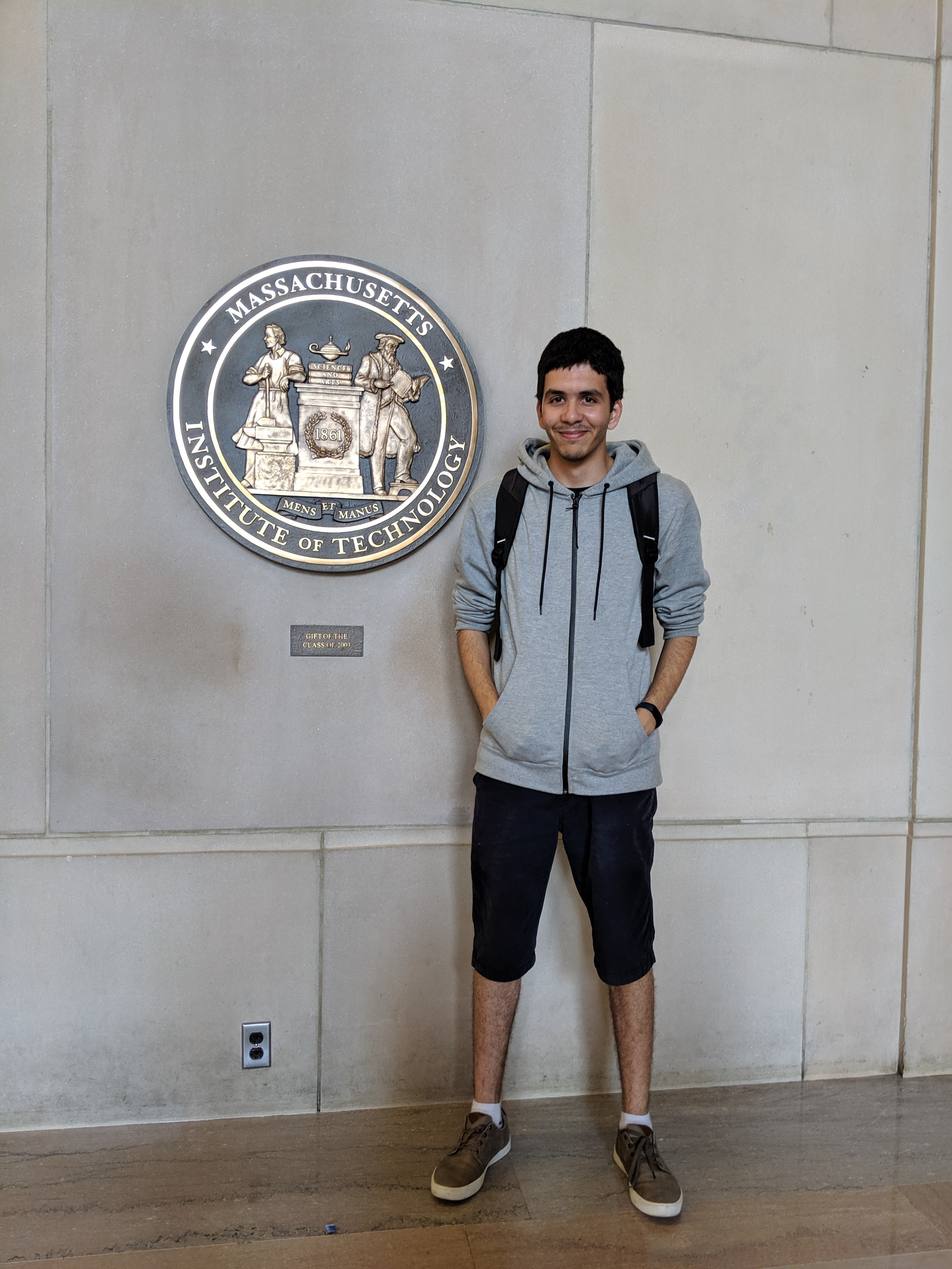
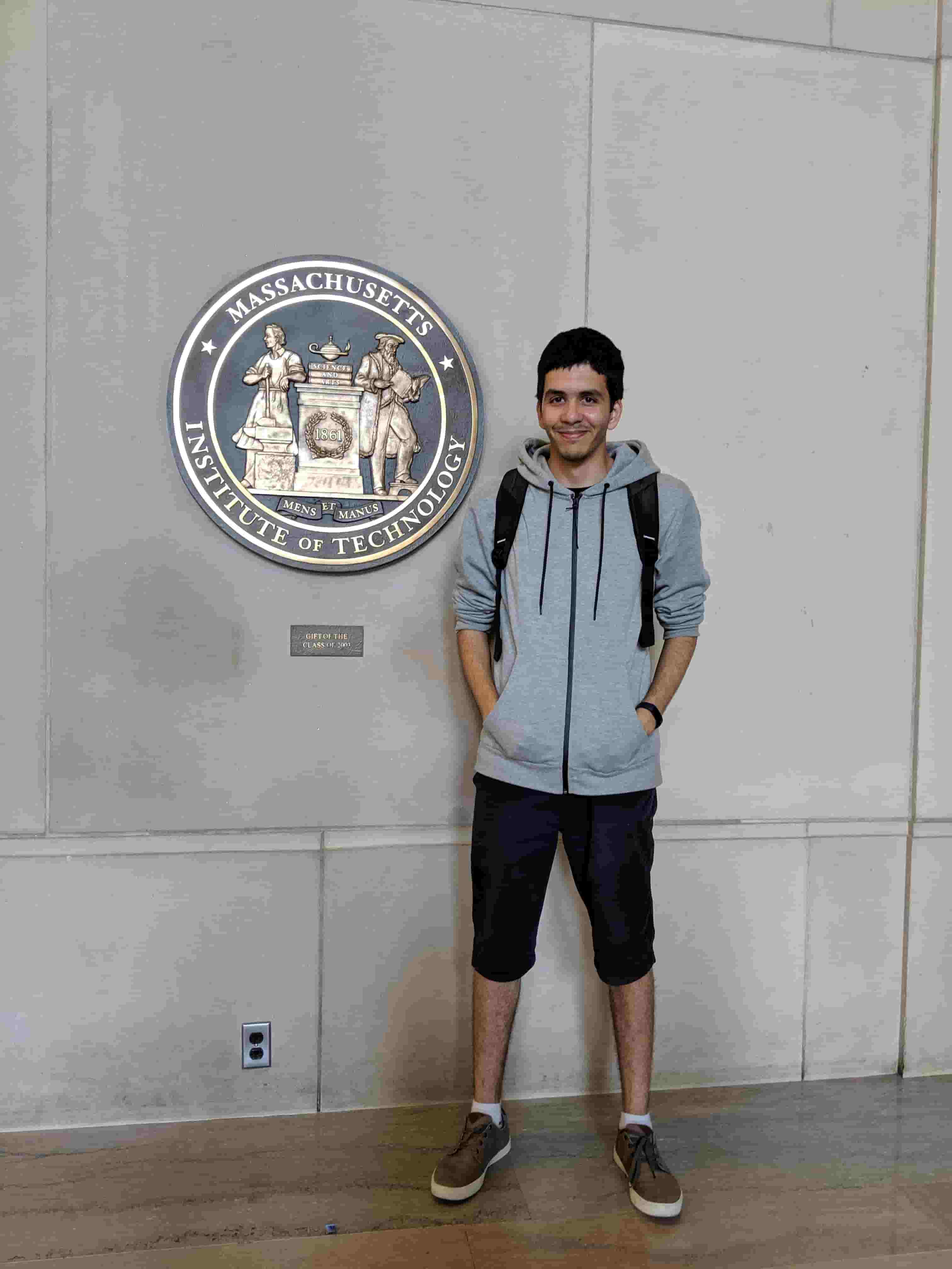
compress images and update them

Changed region(s): [[0.1865, 0.2188, 0.4974, 0.4375], [0.3108, 0.5, 0.373, 0.5312], [0.2487, 0.2188, 0.2798, 0.25]]

diff --git a/src/app/devfest/devfest.component.html b/src/app/devfest/devfest.component.html
@@ -461,7 +461,7 @@
             </div>
 
             <div class="card little  text-dark bg-white">
-              <img class="card-img-top" src="assets/gallery/Mentors/hadjer.jpeg" alt="Card image cap">
+              <img class="card-img-top" src="assets/gallery/Mentors/hadjer.jpg" alt="Card image cap">
               <div class="card-body">
                 <p class="title">
                   Hadjer BENMEZIANE
@@ -557,7 +557,7 @@
               </div>
 
               <div class="card little  text-dark bg-white">
-                <img class="card-img-top" src="assets/gallery/Mentors/hadjer.jpeg" alt="Card image cap">
+                <img class="card-img-top" src="assets/gallery/Mentors/hadjer.jpg" alt="Card image cap">
                 <div class="card-body">
                   <p class="title">
                     Hadjer BENMEZIANE
@@ -609,7 +609,7 @@
               </div>
 
               <div class="card little  text-dark bg-white">
-                <img class="card-img-top" src="assets/gallery/Mentors/Isam.jpeg" alt="Card image cap">
+                <img class="card-img-top" src="assets/gallery/Mentors/Isam.jpg" alt="Card image cap">
                 <div class="card-body">
                   <p class="title">
                     Issam KERFAH
@@ -619,7 +619,7 @@
               </div>
 
               <div class="card little  text-dark bg-white">
-                <img class="card-img-top" src="assets/gallery/Mentors/Adel.jpeg" alt="Card image cap">
+                <img class="card-img-top" src="assets/gallery/Mentors/Adel.jpg" alt="Card image cap">
                 <div class="card-body">
                   <p class="title">
                     Adel FOUDAD
@@ -765,19 +765,19 @@
       <div class="item">
         <div class="simpleBar little-cards-container">
           <div>
-            <img class="card little" style="padding: 1%;" (click)="goToLink('http://www.djezzy.dz/enpincubatorbydjezzy')" src="../../assets/gallery/Sponsors/Djezzy.png">
+            <img class="card little" style="padding: 1%; cursor: pointer;" (click)="goToLink('http://www.djezzy.dz/enpincubatorbydjezzy')" src="../../assets/gallery/Sponsors/Djezzy.svg">
           </div>
           <div>
-            <img class="card little" style="padding: 1%;"(click)="goToLink('https://education.github.com/')" src="../../assets/gallery/Sponsors/GHE.svg" height="100px">
-            <img class="card little" style="padding: 1%;"(click)="goToLink('https://www.discountstickerprinting.co.uk/')" src="../../assets/gallery/Sponsors/discount_printing.svg" height="100px">
-            <img class="card little" style="padding-right: 1%; padding-left: 1%; padding-bottom: 1%; padding-top: 1%;" (click)="goToLink('https://www.google.com/')"
+            <img class="card little" style="padding: 1%; cursor: pointer;"(click)="goToLink('https://education.github.com/')" src="../../assets/gallery/Sponsors/GHE.svg" height="100px">
+            <img class="card little" style="padding: 1%; cursor: pointer;"(click)="goToLink('https://www.discountstickerprinting.co.uk/')" src="../../assets/gallery/Sponsors/discount_printing.svg" height="100px">
+            <img class="card little" style="padding-right: 1%; cursor: pointer; padding-left: 1%; padding-bottom: 1%; padding-top: 1%;" (click)="goToLink('https://www.google.com/')"
               src="../../assets/gallery/Sponsors/google.png" height="100px">
           </div>
           <div>
-            <img class="card little" style="padding: 1%; padding-bottom: 2%; padding-top: 2%;" (click)="goToLink('https://www.dzhoster.com/')"
+            <img class="card little" style="padding: 1%; cursor: pointer; padding-bottom: 2%; padding-top: 2%;" (click)="goToLink('https://www.dzhoster.com/')"
               src="../../assets/gallery/Sponsors/DZH.png" height="100px">
-            <img class="card little" style="padding: 1%;" (click)="goToLink('https://yassir.io')" src="../../assets/gallery/Sponsors/yassir.png" height="100px">
-            <img class="card little" style="padding: 0%;" (click)="goToLink('https://formini.dz/')" src="../../assets/gallery/Sponsors/formini.png"
+            <img class="card little" style="padding: 1%; cursor: pointer;" (click)="goToLink('https://yassir.io')" src="../../assets/gallery/Sponsors/yassir.png" height="100px">
+            <img class="card little" style="padding: 0%; cursor: pointer;" (click)="goToLink('https://formini.dz/')" src="../../assets/gallery/Sponsors/formini.png"
               height="100px">
           </div>
         </div>

diff --git a/src/app/agenda/agenda.component.html b/src/app/agenda/agenda.component.html
@@ -74,7 +74,7 @@
             <div>
               <span>11:00 am - 12:00 pm</span>
               <h3>ML Study Jam</h3>
-              <span>By Hadjer BENMEWIANE & Amine ATHMANI</span>
+              <span>By Hadjer BENMEZIANE & Amine ATHMANI</span>
             </div>
           </div>
           <div class="itemCard shortItem">
@@ -150,7 +150,7 @@
             <div>
               <span>02:00 pm - 05:00 pm</span>
               <h3>ML Study Jam</h3>
-              <span>By Hadjer BENMEWIANE & Amine ATHMANI</span>
+              <span>By Hadjer BENMEZIANE & Amine ATHMANI</span>
             </div>
           </div>
           <div class="itemCard shortItem">
